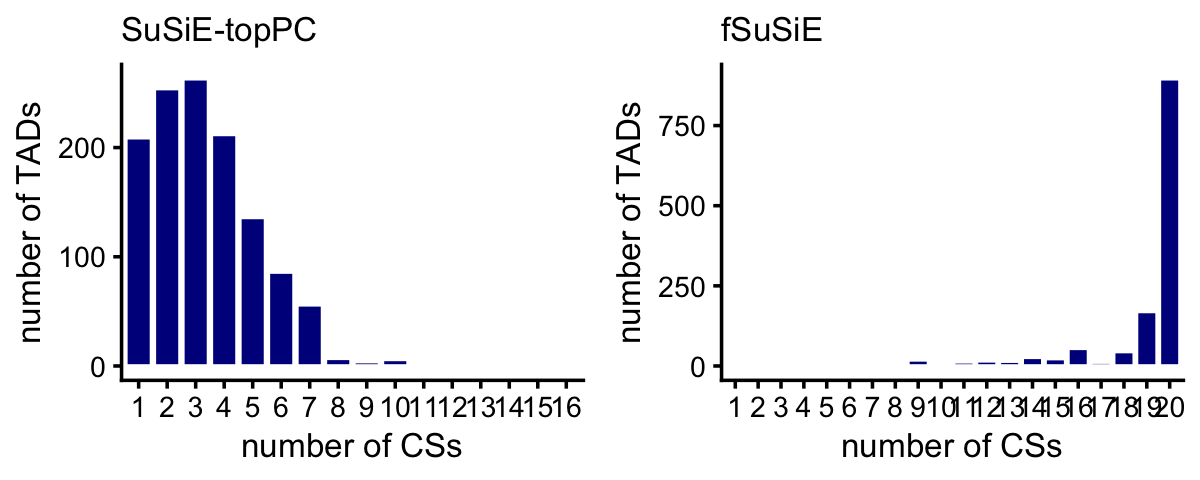
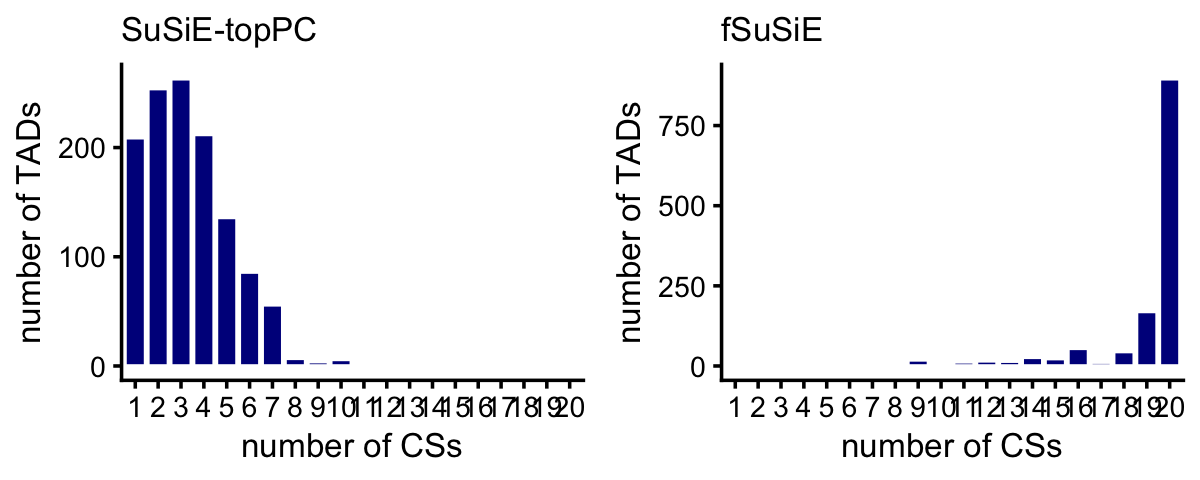
Added plots summarizing H3K27ac results to rosmap_overview analysis.

Changed region(s): [[0.0925, 0.1562, 0.4933, 0.875]]

diff --git a/docs/rosmap_overview.html b/docs/rosmap_overview.html
@@ -434,15 +434,15 @@ project makes it easier to run your code on other machines.</p>
 <div class="panel panel-default">
 <div class="panel-heading">
 <p class="panel-title">
-<a data-toggle="collapse" data-parent="#workflowr-checks" href="#strongRepositoryversionstrongahrefhttpsgithubcomstephenslabfsusieexperimentstree1c8eeb7f07827e141d64f671b8a38821e1ac7c86targetblank1c8eeb7a">
+<a data-toggle="collapse" data-parent="#workflowr-checks" href="#strongRepositoryversionstrongahrefhttpsgithubcomstephenslabfsusieexperimentstree1ad355ae94d1bb9a770faeb0ac56392549a38b4ctargetblank1ad355aa">
 <span class="glyphicon glyphicon-ok text-success"
 aria-hidden="true"></span> <strong>Repository version:</strong>
-<a href="https://github.com/stephenslab/fsusie-experiments/tree/1c8eeb7f07827e141d64f671b8a38821e1ac7c86" target="_blank">1c8eeb7</a>
+<a href="https://github.com/stephenslab/fsusie-experiments/tree/1ad355ae94d1bb9a770faeb0ac56392549a38b4c" target="_blank">1ad355a</a>
 </a>
 </p>
 </div>
 <div
[2 lines of base64/hex data omitted]
 class="panel-collapse collapse">
 <div class="panel-body">
 <p>
@@ -452,7 +452,7 @@ reproducibility.
 </p>
 <p>
 The results in this page were generated with repository version
-<a href="https://github.com/stephenslab/fsusie-experiments/tree/1c8eeb7f07827e141d64f671b8a38821e1ac7c86" target="_blank">1c8eeb7</a>.
+<a href="https://github.com/stephenslab/fsusie-experiments/tree/1ad355ae94d1bb9a770faeb0ac56392549a38b4c" target="_blank">1ad355a</a>.
 See the <em>Past versions</em> tab to see a history of the changes made
 to the R Markdown and HTML files.
 </p>
@@ -519,6 +519,40 @@ Message
 </tr>
 </thead>
 <tbody>
+<tr>
+<td>
+Rmd
+</td>
+<td>
+<a href="https://github.com/stephenslab/fsusie-experiments/blob/1ad355ae94d1bb9a770faeb0ac56392549a38b4c/analysis/rosmap_overview.Rmd" target="_blank">1ad355a</a>
+</td>
+<td>
+Peter Carbonetto
+</td>
+<td>
+2025-03-20
+</td>
+<td>
+wflow_publish("rosmap_overview.Rmd", view = FALSE, verbose = TRUE)
+</td>
+</tr>
+<tr>
+<td>
+html
+</td>
+<td>
+<a href="https://rawcdn.githack.com/stephenslab/fsusie-experiments/c84e5c046a56501c872e946ab6839eac67d0a41a/docs/rosmap_overview.html" target="_blank">c84e5c0</a>
+</td>
+<td>
+Peter Carbonetto
+</td>
+<td>
+2025-03-20
+</td>
+<td>
+Rebuilt the rosmap_overview analysis with the new results.
+</td>
+</tr>
 <tr>
 <td>
 Rmd
@@ -773,6 +807,43 @@ plot_tad_sizes(tads) +
   scale_x_continuous(limits = c(2,9),breaks = 1:10) +
   scale_y_continuous(breaks = seq(0,100,10))</code></pre>
 <p><img src="figure/rosmap_overview.Rmd/plot-methyl-tad-sizes-1.png" width="330" style="display: block; margin: auto;" /></p>
+<p>
+<button type="button" class="btn btn-default btn-xs btn-workflowr btn-workflowr-fig" data-toggle="collapse" data-target="#fig-plot-methyl-tad-sizes-1">
+Past versions of plot-methyl-tad-sizes-1.png
+</button>
+</p>
+<div id="fig-plot-methyl-tad-sizes-1" class="collapse">
+<div class="table-responsive">
+<table class="table table-condensed table-hover">
+<thead>
+<tr>
+<th>
+Version
+</th>
+<th>
+Author
+</th>
+<th>
+Date
+</th>
+</tr>
+</thead>
+<tbody>
+<tr>
+<td>
+<a href="https://github.com/stephenslab/fsusie-experiments/blob/c84e5c046a56501c872e946ab6839eac67d0a41a/docs/figure/rosmap_overview.Rmd/plot-methyl-tad-sizes-1.png" target="_blank">c84e5c0</a>
+</td>
+<td>
+Peter Carbonetto
+</td>
+<td>
+2025-03-20
+</td>
+</tr>
+</tbody>
+</table>
+</div>
+</div>
 <p>Some more useful statistics on the TAD sizes:</p>
 <pre class="r"><code>tad_size &lt;- get_tad_sizes(tads)
 range(tad_size)
@@ -795,7 +866,7 @@ sum(tad_size &gt; 9)
 }
 pdat1 &lt;- get_cs_vs_tad_size(methyl_snps_susie)
 pdat2 &lt;- get_cs_vs_tad_size(methyl_snps_fsusie)
-pdat1 &lt;- transform(pdat1,num_cs = factor(num_cs,1:16))
+pdat1 &lt;- transform(pdat1,num_cs = factor(num_cs,1:20))
 pdat2 &lt;- transform(pdat2,num_cs = factor(num_cs,1:20))
 p1 &lt;- ggplot(pdat1,aes(x = num_cs)) +
   geom_histogram(stat = &quot;count&quot;,color = &quot;white&quot;,fill = &quot;darkblue&quot;) +
@@ -811,6 +882,43 @@ p2 &lt;- ggplot(pdat2,aes(x = num_cs)) +
   theme(plot.title = element_text(size = 10,face = &quot;plain&quot;))
 plot_grid(p1,p2,nrow = 1,ncol = 2)</code></pre>
 <p><img src="figure/rosmap_overview.Rmd/num-cs-per-tad-methyl-1.png" width="600" style="display: block; margin: auto;" /></p>
+<p>
+<button type="button" class="btn btn-default btn-xs btn-workflowr btn-workflowr-fig" data-toggle="collapse" data-target="#fig-num-cs-per-tad-methyl-1">
+Past versions of num-cs-per-tad-methyl-1.png
+</button>
+</p>
+<div id="fig-num-cs-per-tad-methyl-1" class="collapse">
+<div class="table-responsive">
+<table class="table table-condensed table-hover">
+<thead>
+<tr>
+<th>
+Version
+</th>
+<th>
+Author
+</th>
+<th>
+Date
+</th>
+</tr>
+</thead>
+<tbody>
+<tr>
+<td>
+<a href="https://github.com/stephenslab/fsusie-experiments/blob/c84e5c046a56501c872e946ab6839eac67d0a41a/docs/figure/rosmap_overview.Rmd/num-cs-per-tad-methyl-1.png" target="_blank">c84e5c0</a>
+</td>
+<td>
+Peter Carbonetto
+</td>
+<td>
+2025-03-20
+</td>
+</tr>
+</tbody>
+</table>
+</div>
+</div>
 <p>Compare discovery of causal SNPs (number of CSs) in the SuSiE-topPC
 and fSuSiE analyses:</p>
 <pre class="r"><code>dat1 &lt;- get_cs_vs_tad_size(methyl_snps_susie)
@@ -834,6 +942,43 @@ ggplot(pdat,aes(x = num_cs_susie,y = num_cs_fsusie,size = value)) +
   labs(x = &quot;SuSiE-topPC&quot;,y = &quot;fSuSiE&quot;,size = &quot;number of TADs&quot;) +
   theme_cowplot(font_size = 10)</code></pre>
 <p><img src="figure/rosmap_overview.Rmd/compare-num-cs-per-tad-methyl-1.png" width="450" style="display: block; margin: auto;" /></p>
+<p>
+<button type="button" class="btn btn-default btn-xs btn-workflowr btn-workflowr-fig" data-toggle="collapse" data-target="#fig-compare-num-cs-per-tad-methyl-1">
+Past versions of compare-num-cs-per-tad-methyl-1.png
+</button>
+</p>
+<div id="fig-compare-num-cs-per-tad-methyl-1" class="collapse">
+<div class="table-responsive">
+<table class="table table-condensed table-hover">
+<thead>
+<tr>
+<th>
+Version
+</th>
+<th>
+Author
+</th>
+<th>
+Date
+</th>
+</tr>
+</thead>
+<tbody>
+<tr>
+<td>
+<a href="https://github.com/stephenslab/fsusie-experiments/blob/c84e5c046a56501c872e946ab6839eac67d0a41a/docs/figure/rosmap_overview.Rmd/compare-num-cs-per-tad-methyl-1.png" target="_blank">c84e5c0</a>
+</td>
+<td>
+Peter Carbonetto
+</td>
+<td>
+2025-03-20
+</td>
+</tr>
+</tbody>
+</table>
+</div>
+</div>
 <p>Compare the sizes of the CSs in the SuSiE-topPC and fSuSiE
 analyses:</p>
 <pre class="r"><code>bins &lt;- c(0,1,2,5,10,20,Inf)
@@ -857,6 +1002,43 @@ p2 &lt;- ggplot(data.frame(cs_size = cs_size_fsusie),aes(x = cs_size)) +
   theme(plot.title = element_text(size = 10,face = &quot;plain&quot;))
 plot_grid(p1,p2,nrow = 1,ncol = 2)</code></pre>
 <p><img src="figure/rosmap_overview.Rmd/cs-sizes-methyl-1.png" width="480" style="display: block; margin: auto;" /></p>
+<p>
+<button type="button" class="btn btn-default btn-xs btn-workflowr btn-workflowr-fig" data-toggle="collapse" data-target="#fig-cs-sizes-methyl-1">
+Past versions of cs-sizes-methyl-1.png
+</button>
+</p>
+<div id="fig-cs-sizes-methyl-1" class="collapse">
+<div class="table-responsive">
+<table class="table table-condensed table-hover">
+<thead>
+<tr>
+<th>
+Version
+</th>
+<th>
+Author
+</th>
+<th>
+Date
+</th>
+</tr>
+</thead>
+<tbody>
+<tr>
+<td>
+<a href="https://github.com/stephenslab/fsusie-experiments/blob/c84e5c046a56501c872e946ab6839eac67d0a41a/docs/figure/rosmap_overview.Rmd/cs-sizes-methyl-1.png" target="_blank">c84e5c0</a>
+</td>
+<td>
+Peter Carbonetto
+</td>
+<td>
+2025-03-20
+</td>
+</tr>
+</tbody>
+</table>
+</div>
+</div>
 </div>
 <div id="h3k27ac-fine-mapping" class="section level2">
 <h2>H3K27ac fine-mapping</h2>
@@ -875,6 +1057,73 @@ ha_snps_fsusie &lt;- transform(ha_snps_fsusie,
                             cs     = factor(cs),
                             region = factor(region),
                             study  = factor(study))</code></pre>
+<p>There is no need to look at the TAD sizes because the same TADs were
+analyzed for both molecular traits, methylation and H3K27ac.</p>
+<p>These histograms summarize the number of CSs per TAD:</p>
+<pre class="r"><code>pdat1 &lt;- get_cs_vs_tad_size(ha_snps_susie)
+pdat2 &lt;- get_cs_vs_tad_size(ha_snps_fsusie)
+pdat1 &lt;- transform(pdat1,num_cs = factor(num_cs,1:20))
+pdat2 &lt;- transform(pdat2,num_cs = factor(num_cs,1:20))
+p1 &lt;- ggplot(pdat1,aes(x = num_cs)) +
+  geom_histogram(stat = &quot;count&quot;,color = &quot;white&quot;,fill = &quot;tomato&quot;) +
+  scale_x_discrete(drop = FALSE) +
+  labs(x = &quot;number of CSs&quot;,y = &quot;number of TADs&quot;,title = &quot;SuSiE-topPC&quot;) +
+  theme_cowplot(font_size = 10) +
+  theme(plot.title = element_text(size = 10,face = &quot;plain&quot;))
+p2 &lt;- ggplot(pdat2,aes(x = num_cs)) +
+  geom_histogram(stat = &quot;count&quot;,color = &quot;white&quot;,fill = &quot;tomato&quot;) +
+  scale_x_discrete(drop = FALSE) +
+  labs(x = &quot;number of CSs&quot;,y = &quot;number of TADs&quot;,title = &quot;fSuSiE&quot;) +
+  theme_cowplot(font_size = 10) +
+  theme(plot.title = element_text(size = 10,face = &quot;plain&quot;))
+plot_grid(p1,p2,nrow = 1,ncol = 2)</code></pre>
+<p><img src="figure/rosmap_overview.Rmd/num-cs-per-tad-ha-1.png" width="600" style="display: block; margin: auto;" /></p>
+<p>Compare discovery of causal SNPs (number of CSs) in the SuSiE-topPC
+and fSuSiE analyses:</p>
+<pre class="r"><code>dat1 &lt;- get_cs_vs_tad_size(ha_snps_susie)
+dat2 &lt;- get_cs_vs_tad_size(ha_snps_fsusie)
+dat1 &lt;- dat1[c(1,3)]
+dat2 &lt;- dat2[c(1,3)]
+names(dat1) &lt;- c(&quot;tad&quot;,&quot;num_cs_susie&quot;)
+names(dat2) &lt;- c(&quot;tad&quot;,&quot;num_cs_fsusie&quot;)
+dat &lt;- merge(dat1,dat2,all = TRUE)
+rows &lt;- which(is.na(dat$num_cs_susie))
+dat[rows,&quot;num_cs_susie&quot;] &lt;- 0
+pdat &lt;- melt(with(dat,table(num_cs_susie,num_cs_fsusie)))
+rows &lt;- which(pdat$value == 0)
+pdat[rows,&quot;value&quot;] &lt;- NA
+ggplot(pdat,aes(x = num_cs_susie,y = num_cs_fsusie,size = value)) +
+  geom_point(color = &quot;white&quot;,fill = &quot;tomato&quot;,shape = 21) +
+  geom_abline(intercept = 0,slope = 1,color = &quot;black&quot;,linetype = &quot;dotted&quot;) +
+  scale_x_continuous(breaks = seq(0,20,2),limits = c(0,20)) +
+  scale_y_continuous(breaks = seq(0,20,2),limits = c(0,20)) +
+  scale_size(breaks = c(1,10,100)) +
+  labs(x = &quot;SuSiE-topPC&quot;,y = &quot;fSuSiE&quot;,size = &quot;number of TADs&quot;) +
+  theme_cowplot(font_size = 10)</code></pre>
+<p><img src="figure/rosmap_overview.Rmd/compare-num-cs-per-tad-ha-1.png" width="450" style="display: block; margin: auto;" /></p>
+<p>Compare the sizes of the CSs in the SuSiE-topPC and fSuSiE
+analyses:</p>
+<pre class="r"><code>bins &lt;- c(0,1,2,5,10,20,Inf)
+cs_size_susie  &lt;- as.numeric(table(ha_snps_susie$cs))
+cs_size_fsusie &lt;- as.numeric(table(ha_snps_fsusie$cs))
+cs_size_susie  &lt;- cut(cs_size_susie,bins)
+cs_size_fsusie &lt;- cut(cs_size_fsusie,bins)
+levels(cs_size_susie) &lt;- bins[-1]
+levels(cs_size_fsusie) &lt;- bins[-1]
+p1 &lt;- ggplot(data.frame(cs_size = cs_size_susie),aes(x = cs_size)) +
+  geom_histogram(stat = &quot;count&quot;,color = &quot;white&quot;,fill = &quot;tomato&quot;,
+                 width = 0.65) +
+  labs(x = &quot;CS size&quot;,y = &quot;number of CSs&quot;,title = &quot;SuSiE-topPC&quot;) +
+  theme_cowplot(font_size = 10) +
+  theme(plot.title = element_text(size = 10,face = &quot;plain&quot;))
+p2 &lt;- ggplot(data.frame(cs_size = cs_size_fsusie),aes(x = cs_size)) +
+  geom_histogram(stat = &quot;count&quot;,color = &quot;white&quot;,fill = &quot;tomato&quot;,
+                 width = 0.65) +
+  labs(x = &quot;CS size&quot;,y = &quot;number of CSs&quot;,title = &quot;fSuSiE&quot;) +
+  theme_cowplot(font_size = 10) +
+  theme(plot.title = element_text(size = 10,face = &quot;plain&quot;))
+plot_grid(p1,p2,nrow = 1,ncol = 2)</code></pre>
+<p><img src="figure/rosmap_overview.Rmd/cs-sizes-ha-1.png" width="480" style="display: block; margin: auto;" /></p>
 <br>
 <p>
 <button type="button" class="btn btn-default btn-workflowr btn-workflowr-sessioninfo" data-toggle="collapse" data-target="#workflowr-sessioninfo" style="display: block;">
